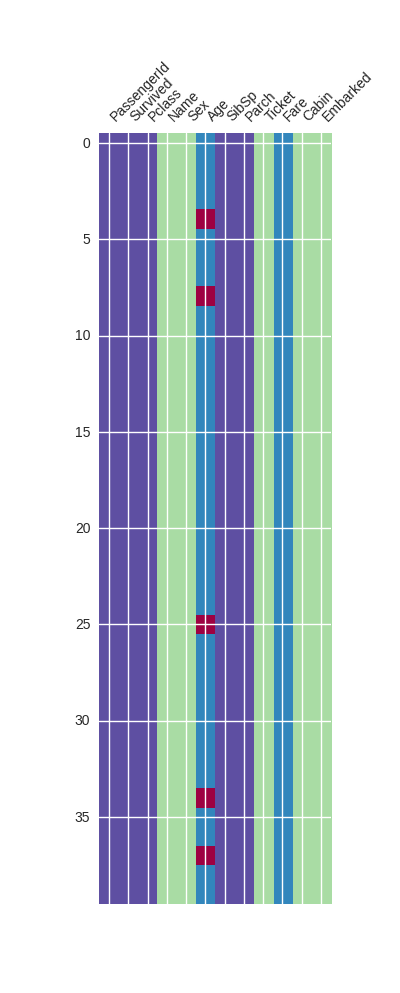
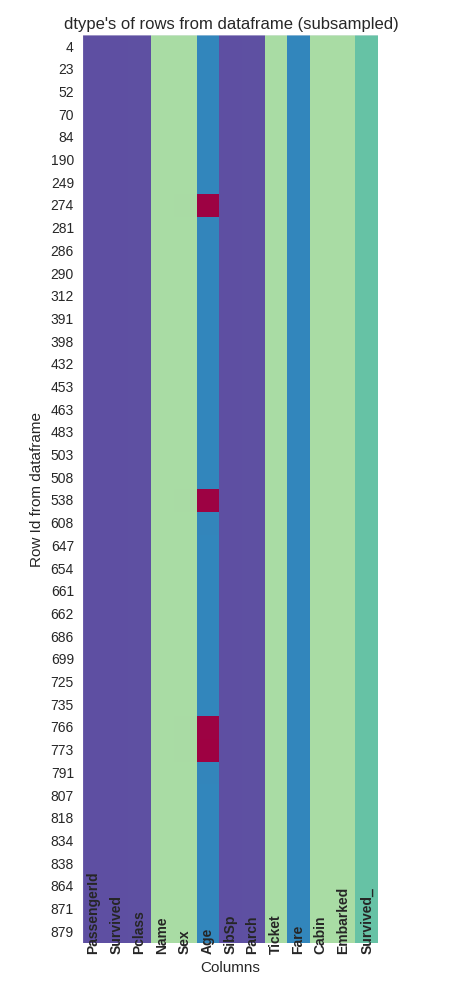
update

diff --git a/visualise_dataframe.py b/visualise_dataframe.py
@@ -83,9 +83,13 @@ def summarise(df, subsample_rows=50, dependent_col=None):
 
 def show_cells(df, subsample_rows=40):
     """Try to give a "view from a balloon" on the whole dataframe"""
+    rows_subsampled = False
     if len(df) > subsample_rows:
         print("Sampling {} rows from df".format(subsample_rows))
-        df = df.ix[np.random.choice(df.index, subsample_rows, replace=False)]
+        subsampled_row_ids = np.random.choice(df.index, subsample_rows, replace=False)
+        subsampled_row_ids.sort()
+        df = df.ix[subsampled_row_ids]
+        rows_subsampled = True
     cells = np.zeros((df.shape))
     for col_nbr, dtype in enumerate(df.dtypes):
         colour = None
@@ -101,17 +105,32 @@ def show_cells(df, subsample_rows=40):
         if colour >= 0:
             cells[:, col_nbr] = colour
         else:
-            print("NOTE - unhandled", col_nbr, dtype, df.columns[col_nbr])
+            print("WARNING - unhandled dtype (ignored):", col_nbr, dtype, df.columns[col_nbr])
 
         col_name = df.columns[col_nbr]
         col = df[col_name]
+        # TODO clean this up, was too tired to think when writing it...
+        # surely I can do this in a vectorised way?
         if col.dtype != np.object_:
+            # set NaN values to a special colour
             for row_nbr, value in enumerate(col):
                 if np.isnan(col.values[row_nbr]):
                     cells[row_nbr, col_nbr] = 10
-    plt.matshow(cells, cmap=matplotlib.cm.Spectral_r)
-    plt.xticks(range(len(df.columns)), df.columns, rotation=45, ha="left")
-    return cells
+
+    # draw grid of few rows and all df columns
+    fig = plt.figure()
+    plt.imshow(cells, cmap=matplotlib.cm.Spectral_r, interpolation="none")
+    plt.xticks(range(len(df.columns)), df.columns, rotation=90, ha="center", va="bottom", weight="bold")
+    plt.yticks(range(len(df)), subsampled_row_ids)
+    plt.ylabel("Row Id from dataframe")
+    plt.xlabel("Columns")
+    plt.grid(b=False)  # disable grid
+
+    title = "dtype's of rows from dataframe"
+    if rows_subsampled:
+        title += " (subsampled)"
+    plt.title(title)
+    return cells, fig
 
 
 if __name__ == "__main__":
@@ -119,7 +138,8 @@ if __name__ == "__main__":
         # DEMO work with Kaggle Titanic training data
         df = pd.io.parsers.read_table("kaggle_titanic_train.csv", sep=",")
         fig = summarise(df)
-        #cells = show_cells(df)
+        #df['Survived_'] = df['Survived'].astype(np.bool_)
+        #cells, fig = show_cells(df)
 
     if False:
         # DEMO work with Kaggle Titanic training data and a dependent variable

diff --git a/README.md b/README.md
@@ -30,3 +30,7 @@ We can also ask it to draw each variable when dependent on a boolean (in the cas
 Finally with `show_cells` we can subsample a set of rows and show their dtypes and whether they're NaN or not, to get an idea about the relationship between NaNs and other data:
 
 ![show_cells](https://github.com/ianozsvald/dataframe_visualiser/blob/master/example_titanic_show_cells.png)
+
+## TODO
+
+ * don't subsample df and then analyse, instead analyse before subsampling to count NaNs in full columns
